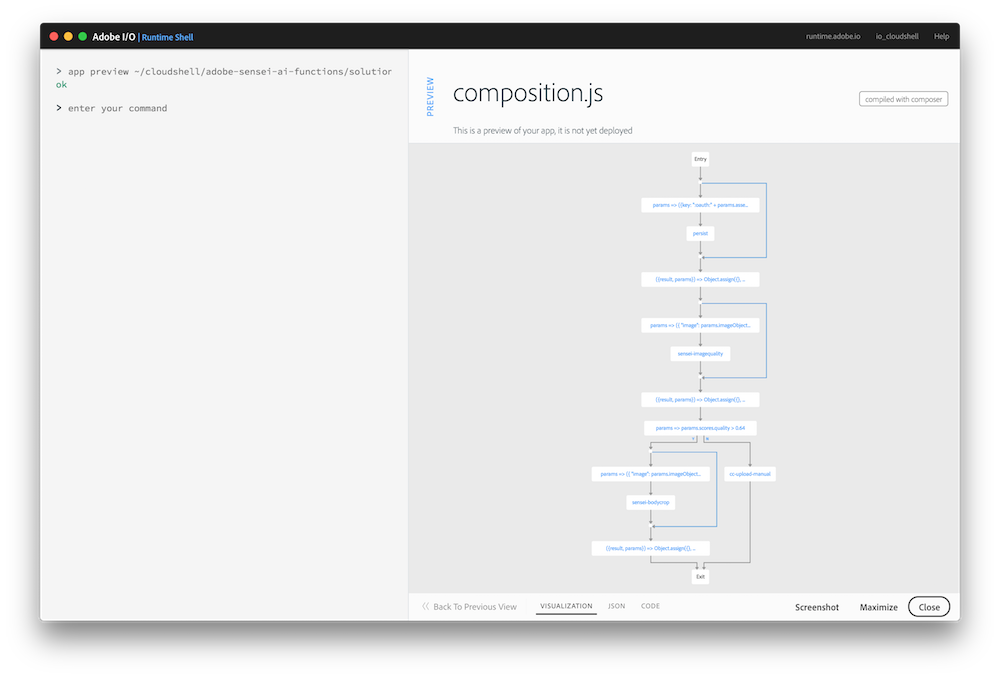
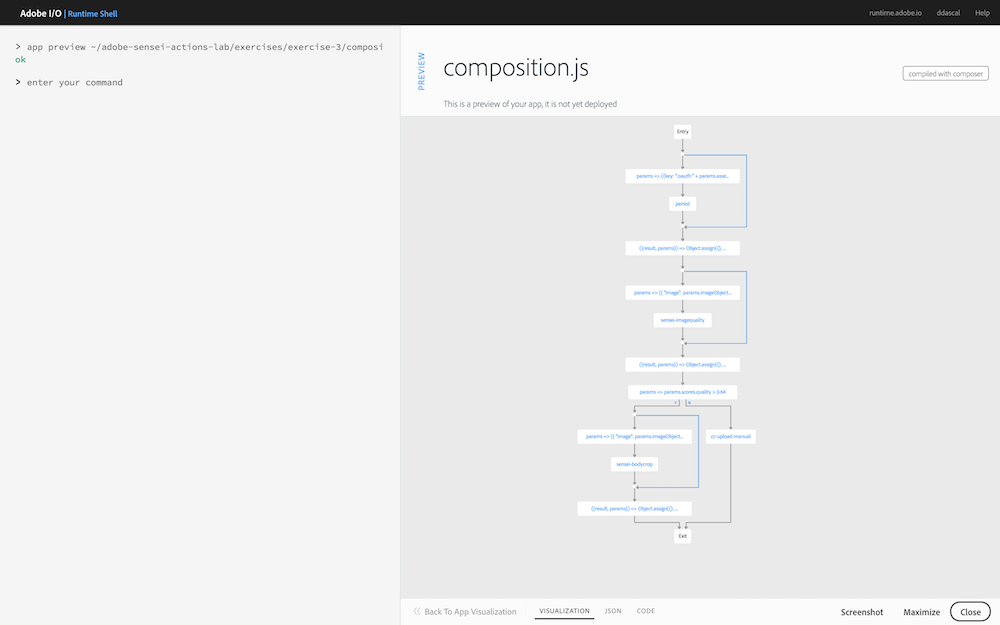
Content updates, flow screenshots updated

Changed region(s): [[0.0, 0.0, 1.0, 1.0], [0.62, 0.2432, 0.775, 0.76], [0.589, 0.76, 0.713, 0.8512]]

diff --git a/lesson8.md b/lesson8.md
@@ -30,15 +30,14 @@ In this exercise you will add the Sensei Auto Swatch function to automatically e
           /* grab autoswatch results */
           ({result, params}) => Object.assign({}, result, params),
 
-
-3. Now that the image quality has been checked, the crop results returned and the swatches processed, the image is ready to be copied into AEM for final distribution. 
+3. Now that the image quality has been checked, the crop results returned and the swatches processed, the image is ready to be copied into AEM for final distribution.
 
     After the `sensei-autoswatch` results are returned, code the following action to perform the crop on the image and copy it into AEM:
 
           /** 
-          *  TODO: Copy asset to AEM 
-          *  invoking '/adobe/acp-assets-0.5.0/aem-copy-asset-and-crop' action
-          */
+           *  TODO: Copy asset to AEM 
+           *  invoking '/adobe/acp-assets-0.5.0/aem-copy-asset-and-crop' action
+           */
           '/adobe/acp-assets-0.5.0/aem-copy-asset-and-crop'
 
 ## Try it!
@@ -46,7 +45,7 @@ In this exercise you will add the Sensei Auto Swatch function to automatically e
 
        app preview ~/adobe-sensei-actions-lab/exercises/exercise-4/composition.js
 
-      ![](images/exercise4-flow.png)
+      ![](images/exercise4-flowb.png)
 
 2. Next, update the current `asset_created_composition` with your new version:
 
@@ -54,13 +53,15 @@ In this exercise you will add the Sensei Auto Swatch function to automatically e
 
 3. Now open the browser to your Creative Cloud and upload an image to trigger an `asset_created` event.
 
-5. Switch back to the Adobe I/O Runtime Shell and type:
+5. Switch back to the **Adobe I/O Runtime Shell** and type:
 
        session list
 
 6. Locate the most recent `asset_created_composition` running and click on the session id to view the result.
 
-7. If the app ran successfully then you will see the asset copied into an AEM instance (with the same folder name as you defined in the Creative Cloud). To check AEM, log in with the host and credentials provided.
+7. If the app ran successfully then you will see the asset copied into an AEM instance (with the same folder name as you defined in the Creative Cloud). 
+
+    > To check AEM, log in with the host and credentials provided.
 
 <div class="row" style="margin-top:40px;">
 <div class="col-sm-12">

diff --git a/lesson9.md b/lesson9.md
@@ -50,7 +50,7 @@ In this exercise you will add the Sensei Auto Tag function to auto tag an image 
 
        app preview ~/adobe-sensei-actions-lab/exercises/exercise-5/composition.js
 
-      ![](images/exercise5-flow.png)
+      ![](images/exercise5-flowb.png)
 
 2. Next, update the current `asset_created_composition` with your new version:
 
@@ -58,13 +58,15 @@ In this exercise you will add the Sensei Auto Tag function to auto tag an image 
 
 3. Now open the browser to your Creative Cloud and upload an image to trigger an `asset_created` event.
 
-4. Switch back to the Adobe I/O Runtime Shell and type:
+4. Switch back to the **Adobe I/O Runtime Shell** and type:
 
        session list
 
 5. Locate the most recent `asset_created_composition` running and click on the session id to view the result.
 
-6. If the app ran successfully then you will see the asset copied into an AEM instance (with the same folder name as you defined in the Creative Cloud). To check AEM, log in with the host and credentials provided.
+6. If the app ran successfully then you will see the asset copied into an AEM instance (with the same folder name as you defined in the Creative Cloud). When you locate the file uploaded into AEM, click on the circled i button to view the info for it and check for the existence of tags. One of them should say `created with io runtime`. 
+
+   > Use the AEM host and credentials provided to login and check AEM for the file.
 
     
 <div class="row" style="margin-top:40px;">

diff --git a/lesson7.md b/lesson7.md
@@ -11,8 +11,8 @@ In this exercise you will use the **Sensei Body Crop** action to identify refere
 2. Just after the `TODO` block, add the code snippet below to invoke the `/sensei/1.0/sensei-bodycrop` action. The code will pass in the `image` object and save the result in a `crops` object. The result will contain the constraints recommended for cropping out the body of the image.
  
         /**
-        *  TODO: Use the action '/sensei/1.0/sensei-bodycrop' to crop the body.
-        */
+         *  TODO: Use the action '/sensei/1.0/sensei-bodycrop' to crop the body.
+         */
         composer.retain(
             composer.sequence(
                 params => ({
@@ -25,7 +25,7 @@ In this exercise you will use the **Sensei Body Crop** action to identify refere
         ({result, params}) => Object.assign({},
             { crops: result },
             params
-        ),
+        )
 
 ## Try it!
 1. First, preview your composition to ensure it contains the `sensei-bodycrop` action:
@@ -38,7 +38,7 @@ In this exercise you will use the **Sensei Body Crop** action to identify refere
 
        app update asset_created_composition ~/adobe-sensei-actions-lab/exercises/exercise-3/composition.js
 
-3. Now open the browser to your Creative Cloud folder and upload a new image to trigger an `asset_created`.
+3. Now open the browser to your Creative Cloud folder and upload a new image to trigger an `asset_created` event.
 
 5. Switch back to the **Adobe I/O Runtime Shell** and type:
 

diff --git a/lesson6.md b/lesson6.md
@@ -12,7 +12,7 @@ In this exercise you will add code to check the quality score received from the 
 2. Locate the `TODO` comment block and add the following snippet:
 
         /* TODO: ... */
-        ,composer.if(
+        composer.if(
           params => params.scores.quality > 0.64,
           /* if quality is met, process the image and upload to AEM */
           (params) => params,
@@ -32,9 +32,9 @@ In this exercise you will add code to check the quality score received from the 
 
        app update asset_created_composition ~/adobe-sensei-actions-lab/exercises/exercise-2/composition.js
 
-3. Open the browser to your Creative Cloud instance and trigger the `Asset Created` event by uploading a low quality image into it. One has been included for you to use by the name of `~/adobe-sensei-actions-lab/images/quality-fail.png`.
+3. Open the browser to your Creative Cloud instance and trigger the `asset_created` event by uploading a low quality image into it. One has been included for you within the projects `~/adobe-sensei-actions-lab/stock-photos` folder by the name of `quality-fail.png`.
 
-5. Switch back to the Adobe I/O Runtime Shell to find your session:
+5. Switch back to the **Adobe I/O Runtime Shell** to find your session:
 
        session list
 
